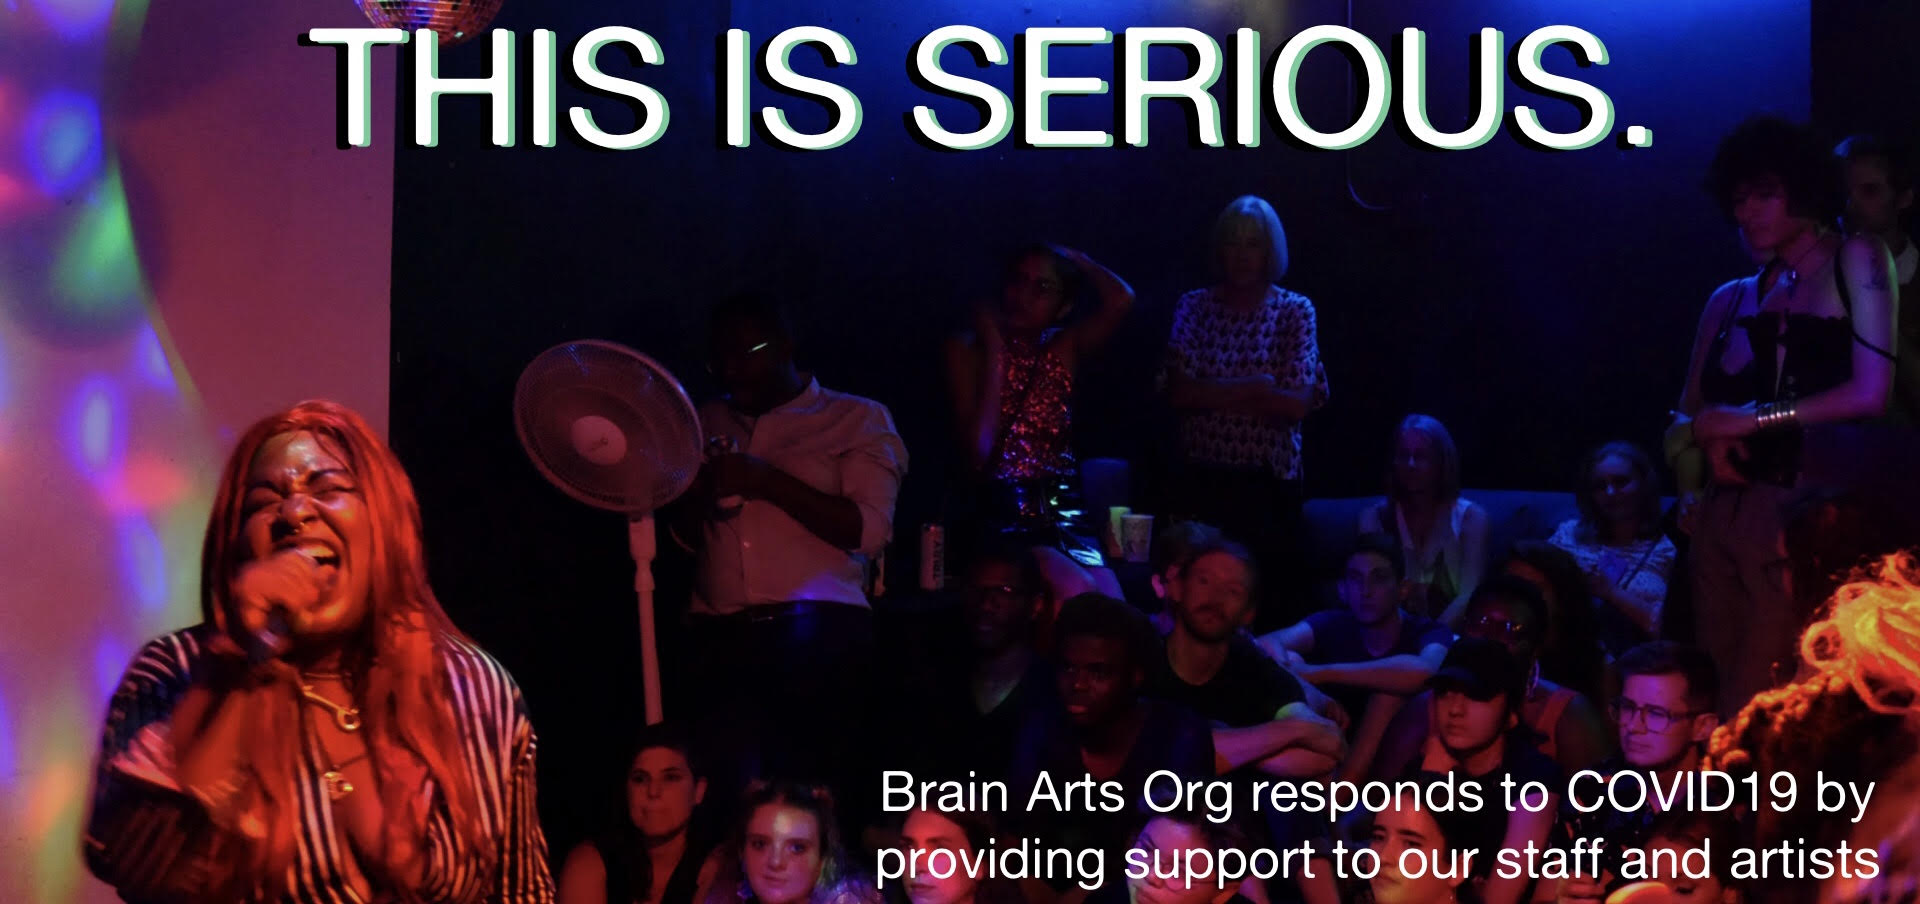
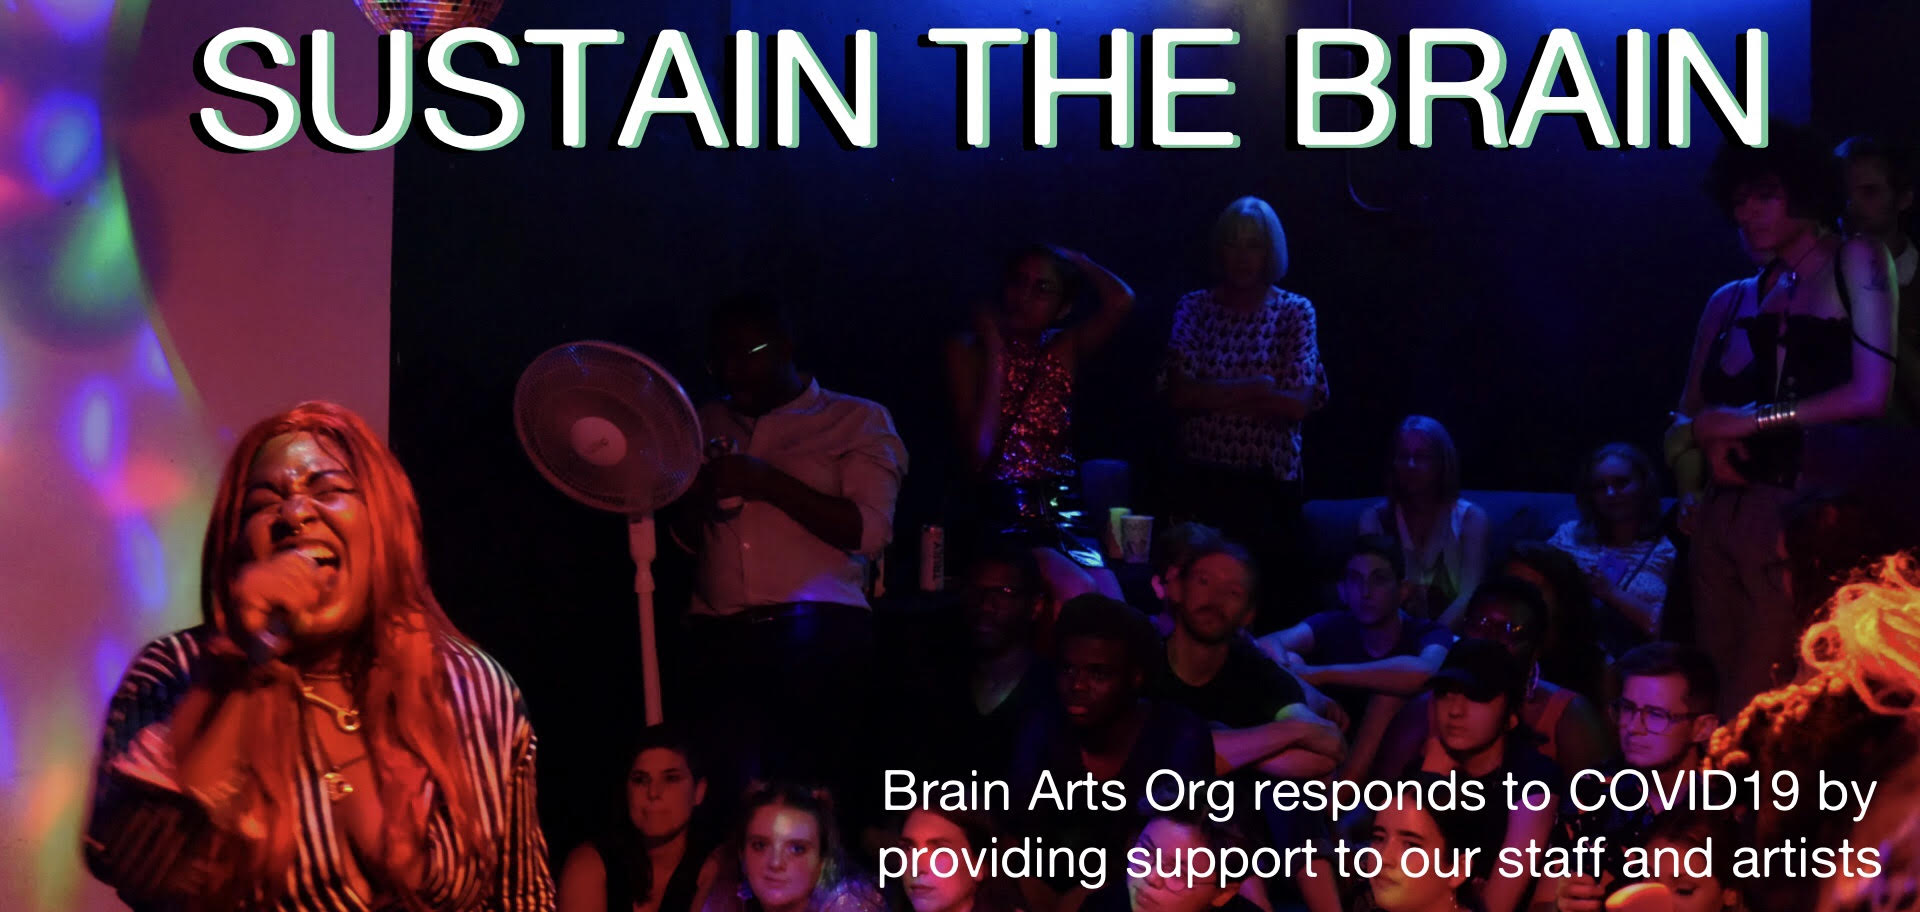
updated images

diff --git a/app/templates/home.html b/app/templates/home.html
@@ -96,12 +96,13 @@
     <div class="container">
       <div class="row">
         <div class="col-lg-8 mx-auto">
-          <h2 style="font-size: 3.5rem; text-align: center;">OUR IMPACT</h2>
+          <img class="d-block w-100" src="/static/img/impact_title.jpg">
+          <br>
           <p class="lead">Here at Brain Arts, we envision a society that values artists of all backgrounds and empowers them to build and sustain meaningful, cohesive communities. We work on this vision through our three projects, The Dorchester Art Project, the Boston Compass Newspaper and the Brain Arts Market, along with numerous other initiatives.</p>
           <br>
           <img class="d-block w-100" src="/static/img/impact.jpg">
           <br>
-          <img class="d-block w-100" src="/static/img/impact2.png">
+          <img class="d-block w-100" src="/static/img/impact2.jpg">
         </div>
       </div>
     </div>
